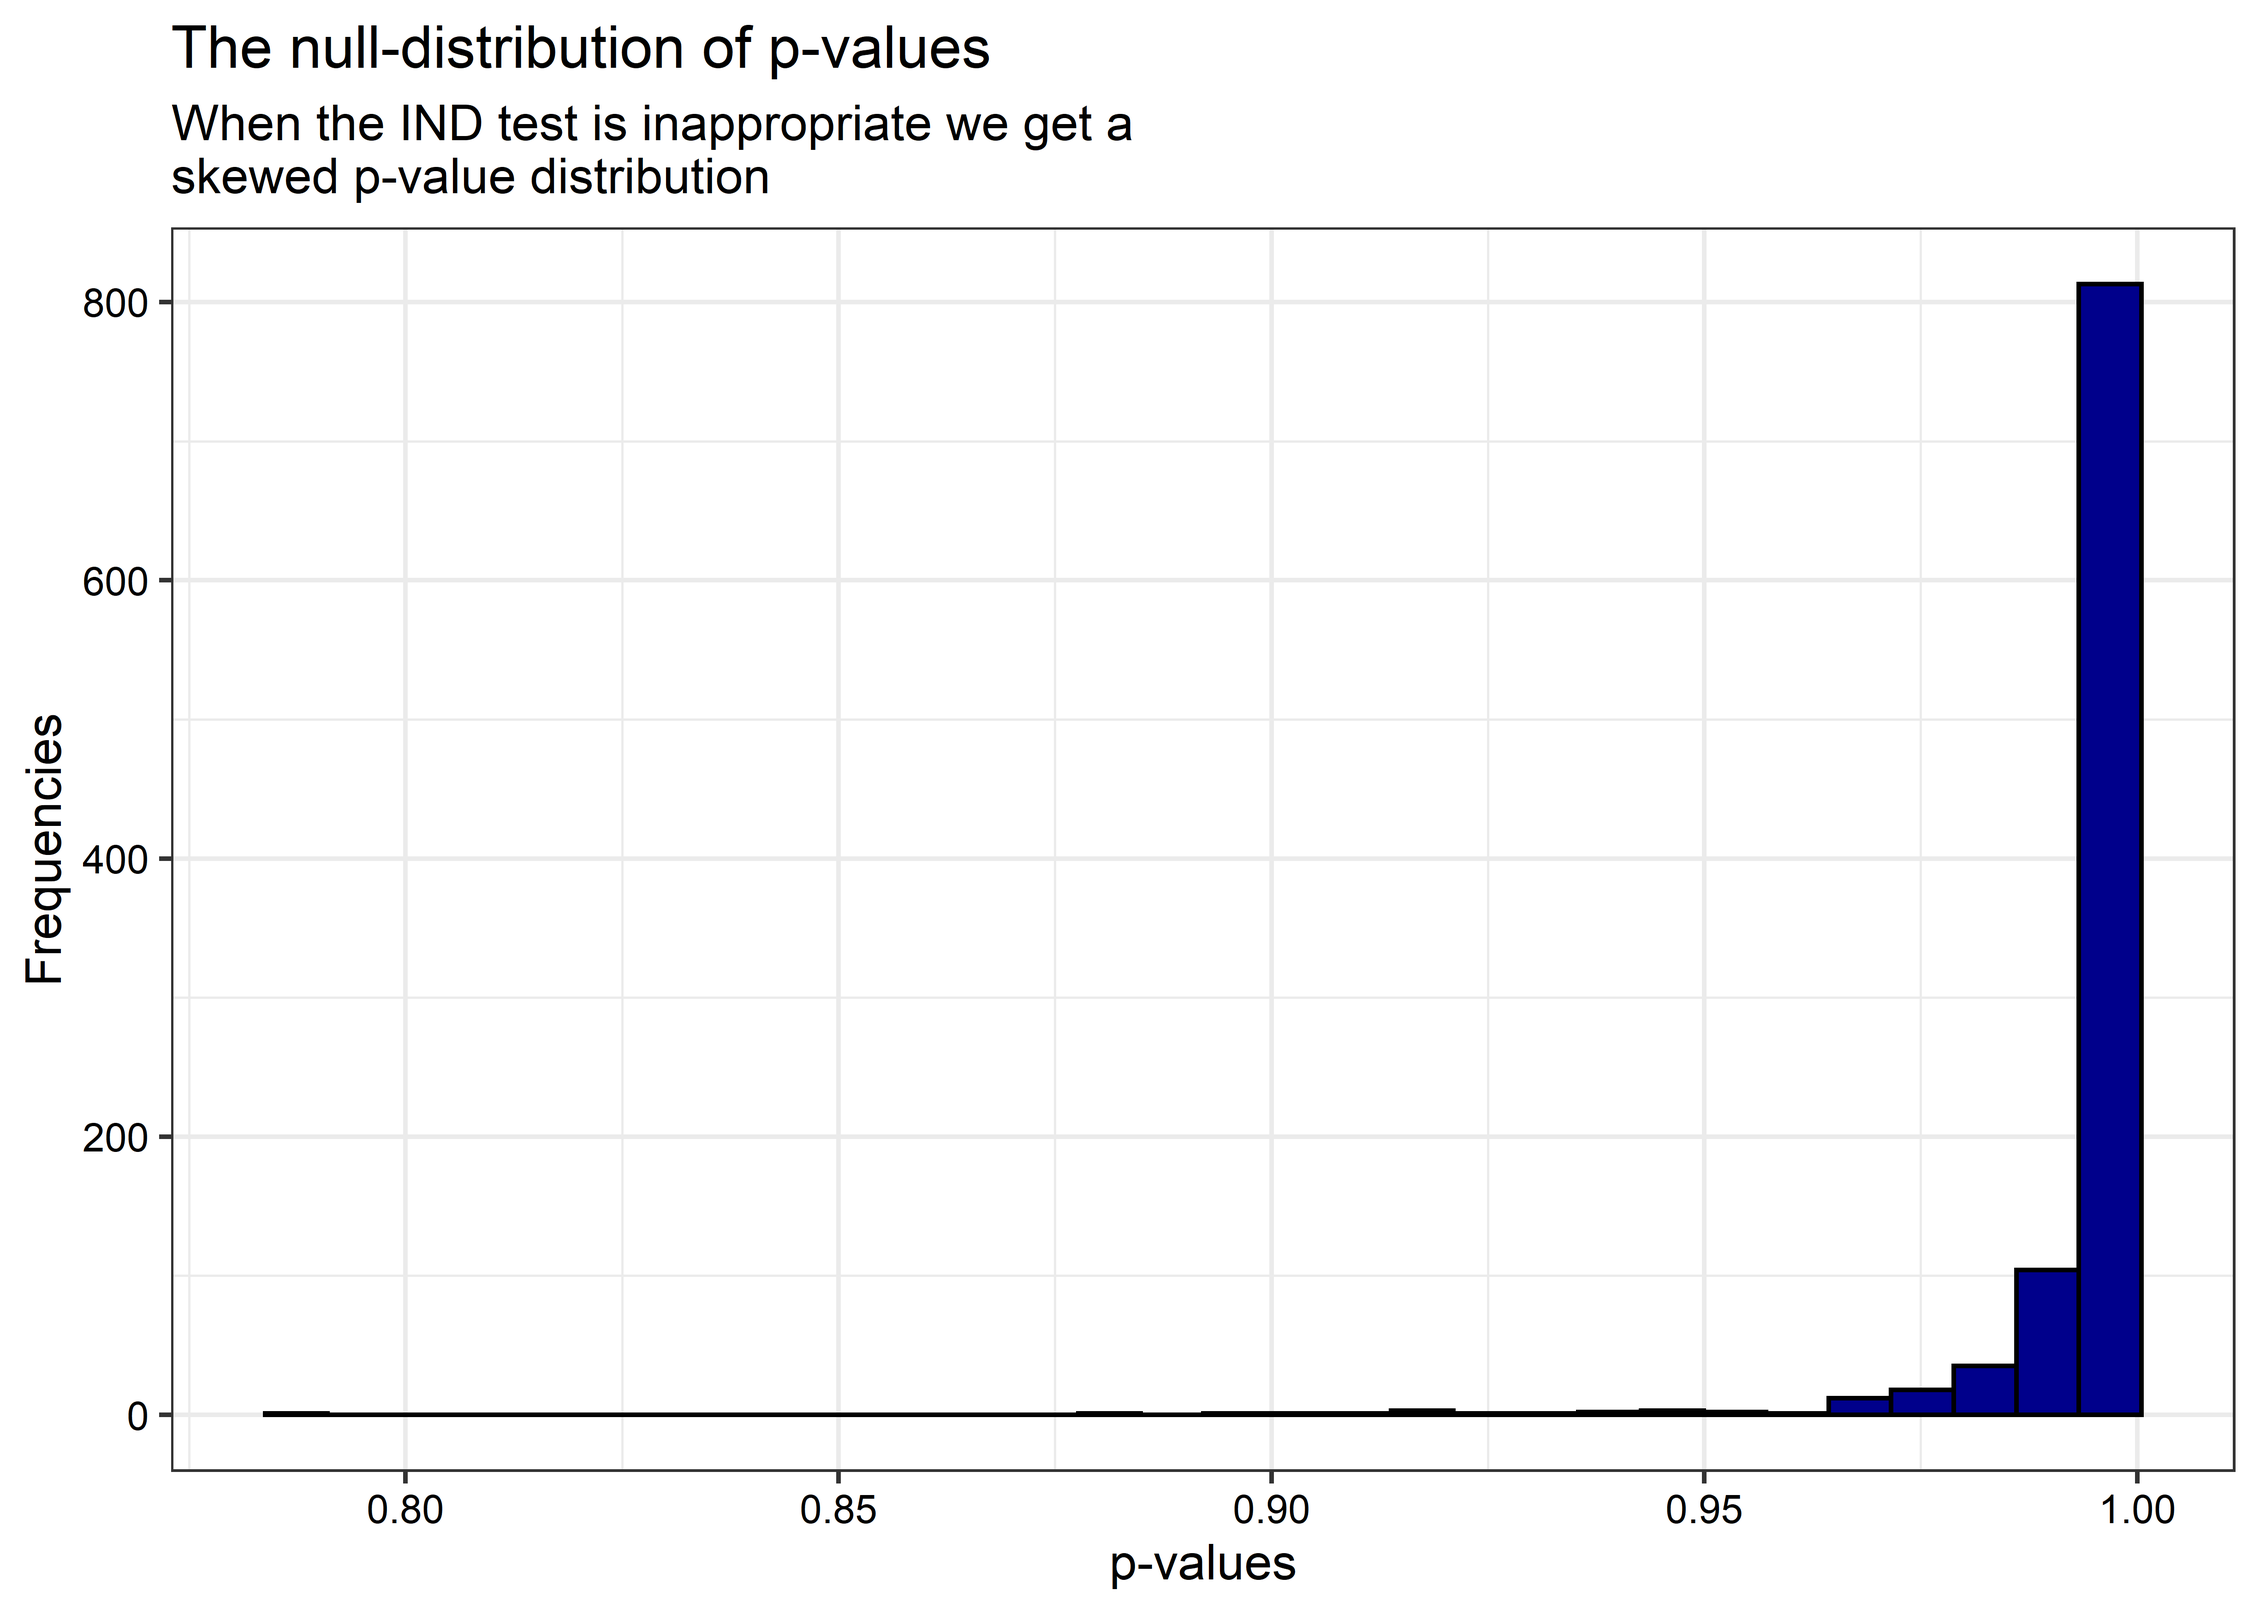
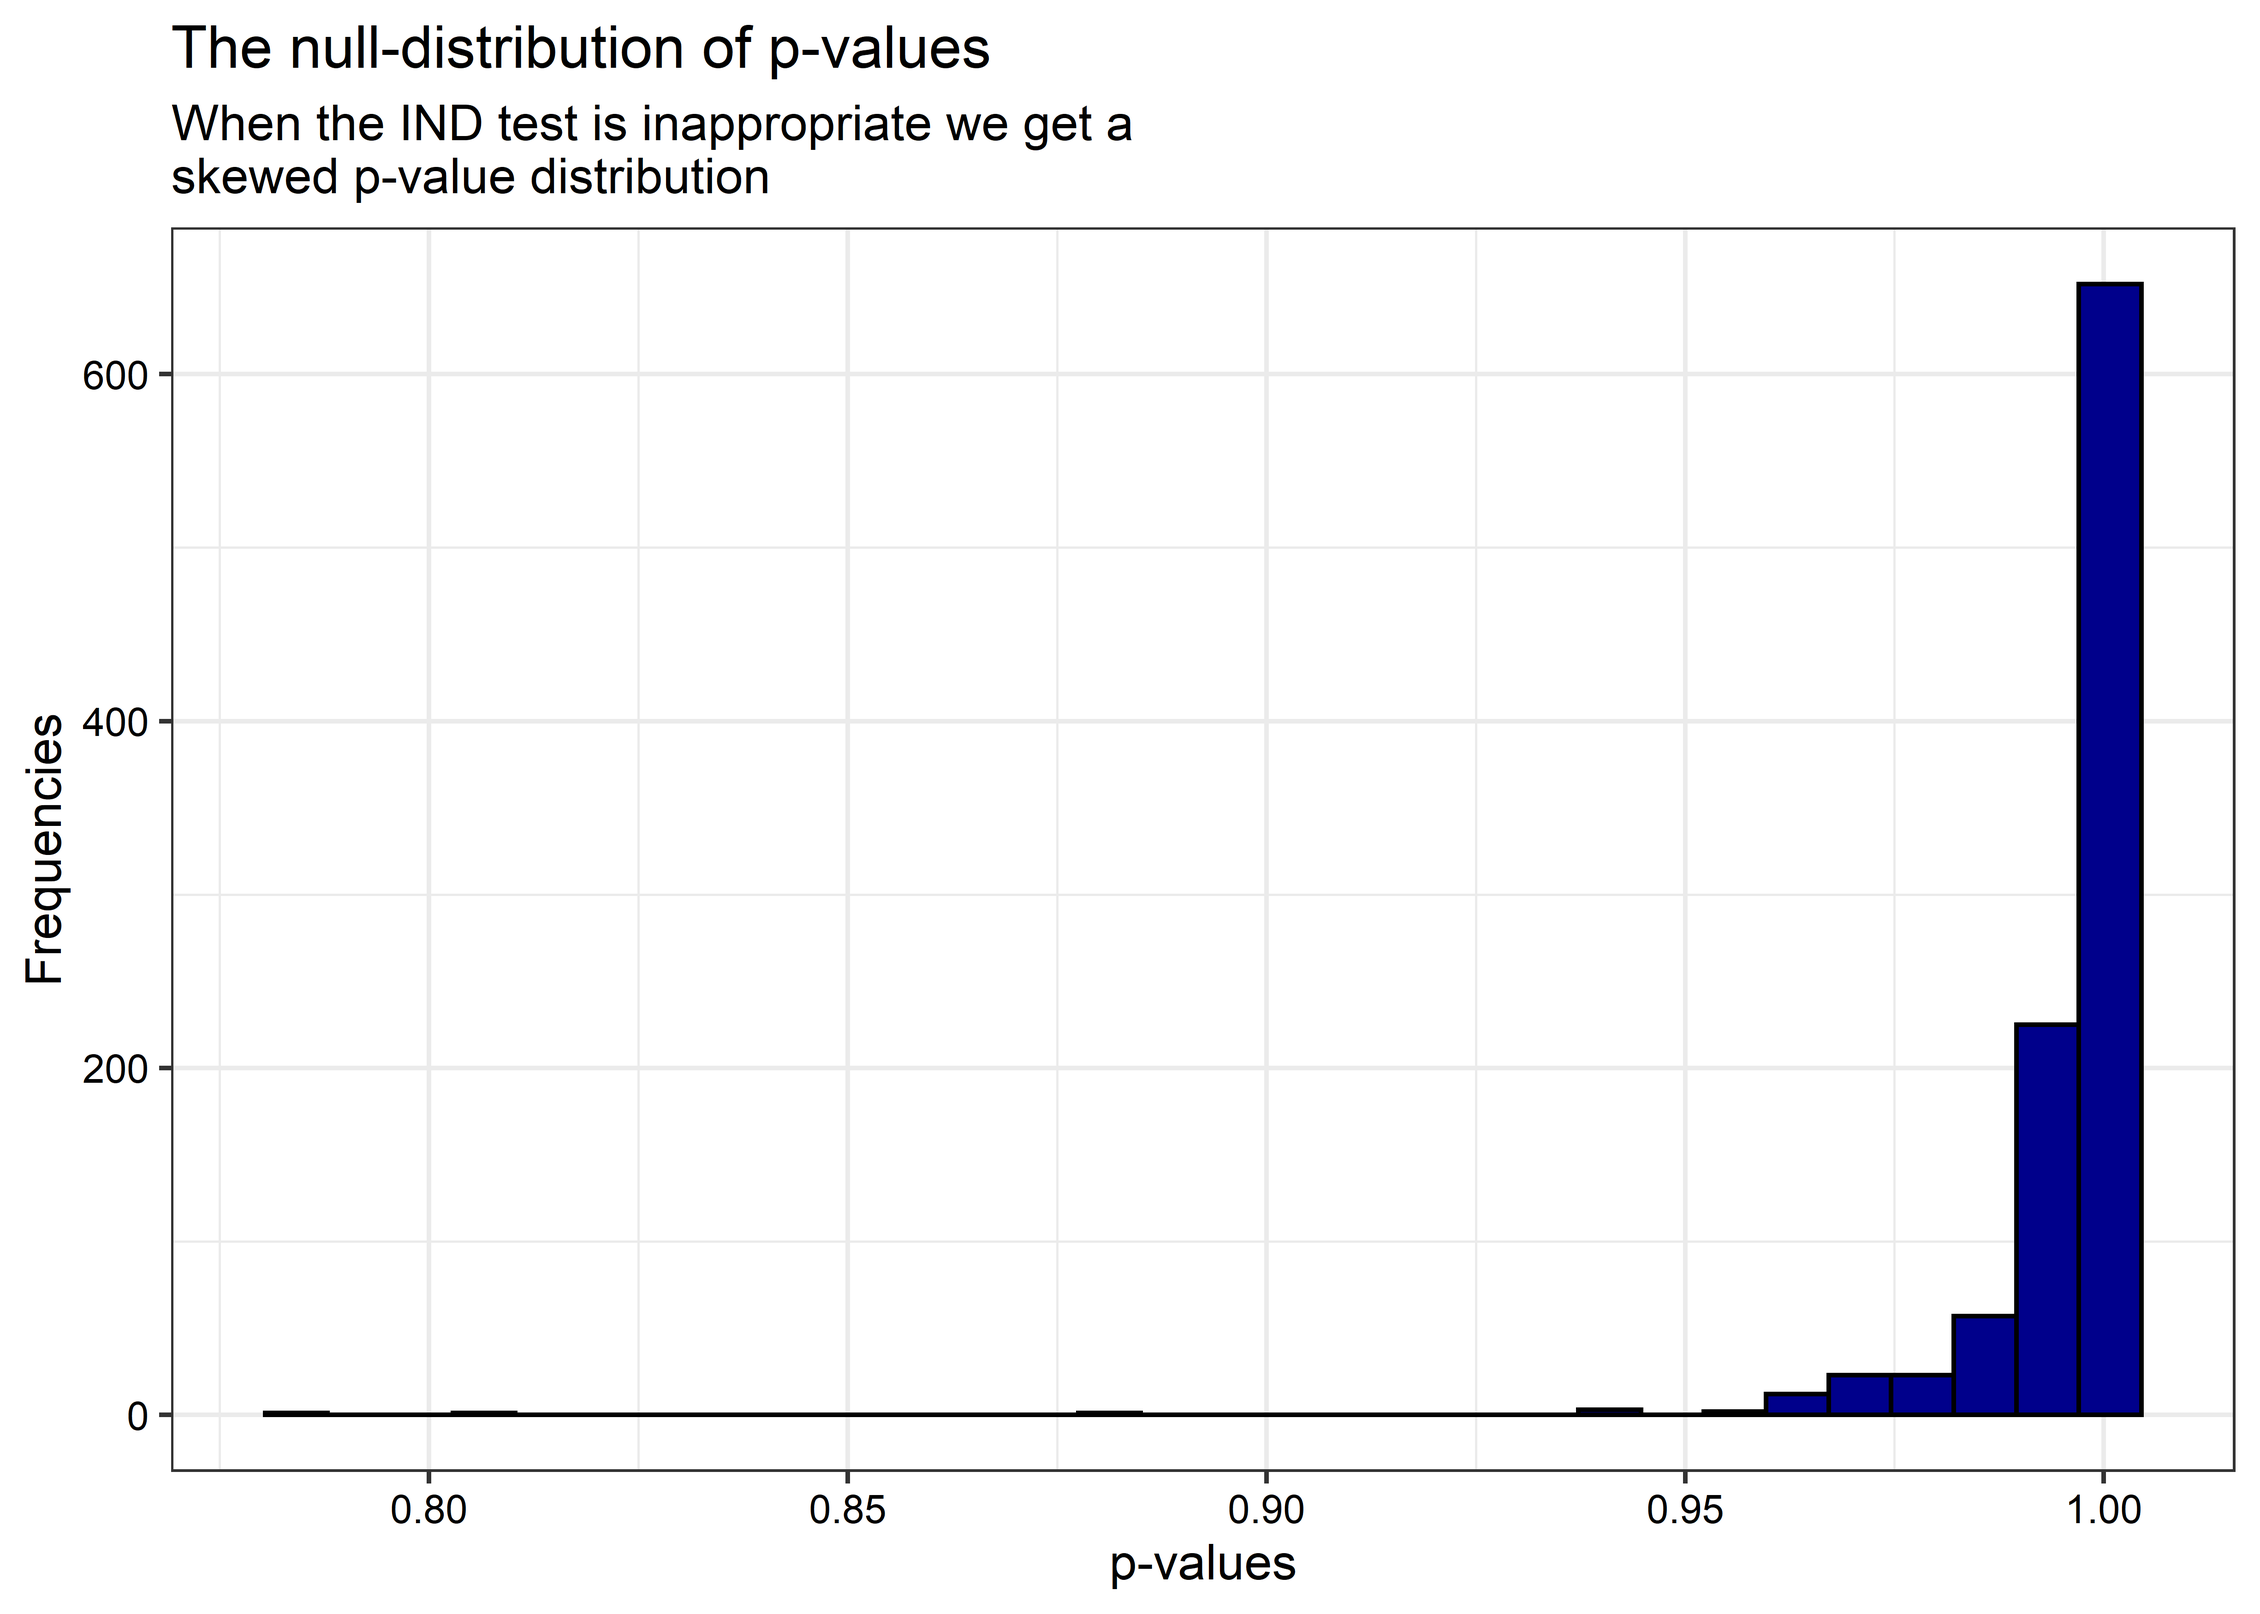
fixing some minor typos

diff --git a/_posts/2022-03-04-multiple-comparisons-problem-with-multinomial-tests.md b/_posts/2022-03-04-multiple-comparisons-problem-with-multinomial-tests.md
@@ -60,7 +60,7 @@ individuals can fall:
 1.  Female and a four-year degree (*F* = 1 and *D* = 1);
 2.  Female and no degree (*F* = 1 and *D* = 0);
 3.  Male and a four-year degree (*F* = 0 and *D* = 1);
-4.  Male and no degree (*F* = 1 and *D* = 0).
+4.  Male and no degree (*F* = 0 and *D* = 0).
 
 The frequency distributions of each strata differ between groups. As the
 below figure summarizes, women and those with a four-year degree are
@@ -75,36 +75,25 @@ as
 [chi-squared](https://en.wikipedia.org/wiki/Pearson%27s_chi-squared_test):
 
 ``` r
-library(tidyverse) # for grammar
-library(seerrr)    # for simulations
-library(XNomial)   # for multinomial tests
-
 # perform chi-squared test
-test <- xmonte(
-  obs = dt$freq[dt$group == "A"],
-  exp = dt$freq[dt$group == "B"],
-  statName = "Chisq"
+chisq.test(
+  x = cbind(
+    dt$freq[1:4],
+    dt$freq[5:8]
+  )
 )
 ```
 
     ## 
-    ## P value (Chisq) = 0 ± 0
+    ##  Pearson's Chi-squared test
+    ## 
+    ## data:  cbind(dt$freq[1:4], dt$freq[5:8])
+    ## X-squared = 276.24, df = 3, p-value < 2.2e-16
 
-``` r
-test[c("observedChi", "pChi")] %>% bind_cols()
-```
-
-    ## # A tibble: 1 x 2
-    ##   observedChi  pChi
-    ##         <dbl> <dbl>
-    ## 1        591.     0
-
-The output shows the computed chi-squared statistic with its Monte Carlo
-simulated p-value (this is a more robust alternative to a test based on
-the asymptotic chi-squared distribution). The p-value is well below the
-usual 0.05 threshold, meaning we can reject the null that the
-sub-pulations are drawn from the same multinomial distribution. In other
-words, ***voters and non-voters are different.***
+The output shows the computed chi-squared statistic with its p-value,
+which is well below the usual 0.05 threshold, meaning we can reject the
+null that the sub-populations are drawn from the same multinomial
+distribution. In other words, ***voters and non-voters are different.***
 
 ## The Problem
 
@@ -264,9 +253,9 @@ chisq_out # the chi-squared results
     ##  Chi-squared test for given probabilities
     ## 
     ## data:  x
-    ## X-squared = 4.04, df = 5, p-value = 0.5437
+    ## X-squared = 4.16, df = 5, p-value = 0.5266
 
-We have a p-value of 0.54, which is well above the conventional
+We have a p-value of 0.53, which is well above the conventional
 *p* \< 0.05 significance threshold. In short, we can’t reject the null
 hypothesis that the die is fair.
 
@@ -335,7 +324,7 @@ tibble(
 As we would expect, there’s some variation between the dice, but that’s
 normal when dealing with observed data.
 
-If we want to be sure, we can implement a IND test in R to check:
+If we want to be sure, we can implement an IND test in R to check:
 
 ``` r
 # We need to put the data in a 2-dimensional array:
@@ -353,10 +342,10 @@ chisq_out # look at the output
     ##  Pearson's Chi-squared test
     ## 
     ## data:  X
-    ## X-squared = 0.93942, df = 5, p-value = 0.9673
+    ## X-squared = 1.5106, df = 5, p-value = 0.9118
 
 Even though we observed some differences in frequencies, these
-differences are not statistically significant. The p-value is 0.97,
+differences are not statistically significant. The p-value is 0.91,
 which is well above the usual *p* \< 0.05 significance threshold.
 
 ## Getting our wires crossed
@@ -376,7 +365,7 @@ had identified in simulations with this test: a ***really high***
 false-positive rate.
 
 To illustrate, suppose we took the same two dice compared above and
-rather than perform a IND test to determine if the two dice are
+rather than perform an IND test to determine if the two dice are
 equivalent we performed the GOF test and treated one of the dice as a
 referent group that captures the expected frequencies of the other die.
 
@@ -397,7 +386,7 @@ chisq_out
     ##  Chi-squared test for given probabilities
     ## 
     ## data:  x
-    ## X-squared = 6.015, df = 5, p-value = 0.3048
+    ## X-squared = 12.601, df = 5, p-value = 0.02742
 
 If we run the GOF test, we get a chi-squared statistic and a
 p-value—with no objection from R, by the way!
@@ -429,7 +418,8 @@ p.values <- replicate(its, run_the_test(), 'c')
 head(p.values) # we have a collection of p-values
 ```
 
-    ## [1] 0.25182781 0.04395254 0.67461200 0.22043008 0.73326219 0.94226484
+    ## [1] 0.0047789999 0.0012484284 0.0003859263 0.0581451295 0.6902624535
+    ## [6] 0.2705798451
 
 If the test is performing as it should, we should get p-values less than
 0.05 about 5% of the time. But this isn’t the case:
@@ -439,7 +429,7 @@ fpr <- round(100 * mean(p.values <= 0.05), 2)
 cat('The test rejects the null ', fpr, '% of the time.', sep = '')
 ```
 
-    ## The test rejects the null 38.3% of the time.
+    ## The test rejects the null 38% of the time.
 
 This is way too liberal! If we look at the distribution of p-values, we
 can see what the problem is:
@@ -491,7 +481,7 @@ p.values <- replicate(its, run_the_test(), 'c')
 head(p.values) # we have a collection of p-values
 ```
 
-    ## [1] 0.9999648 0.9977483 0.9976890 0.9997205 0.9983401 0.9985044
+    ## [1] 0.9880163 0.9997558 0.9948830 0.9960407 0.9997743 0.9904693
 
 The false-positive rate is basically zero now:
 
